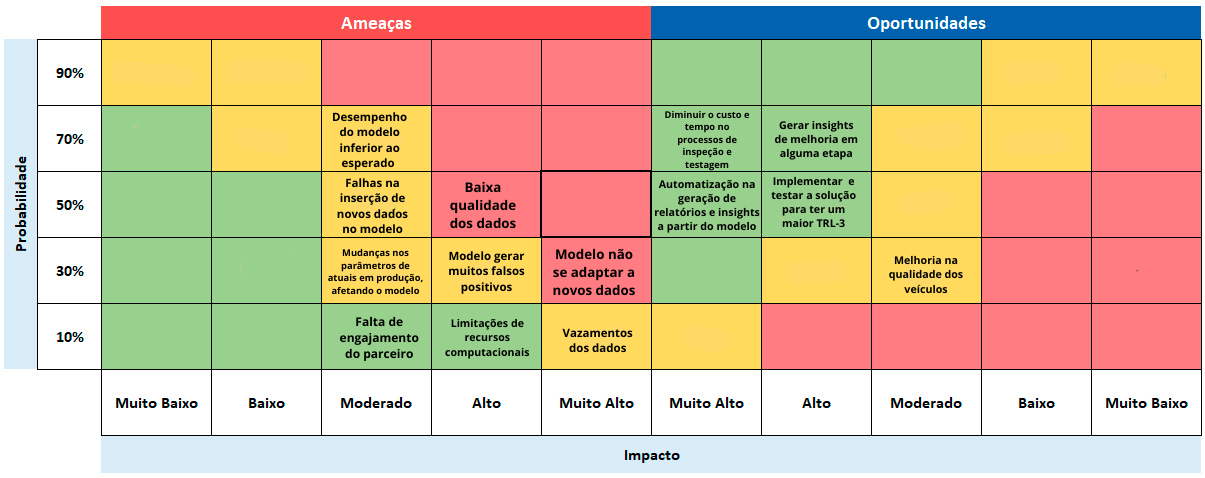
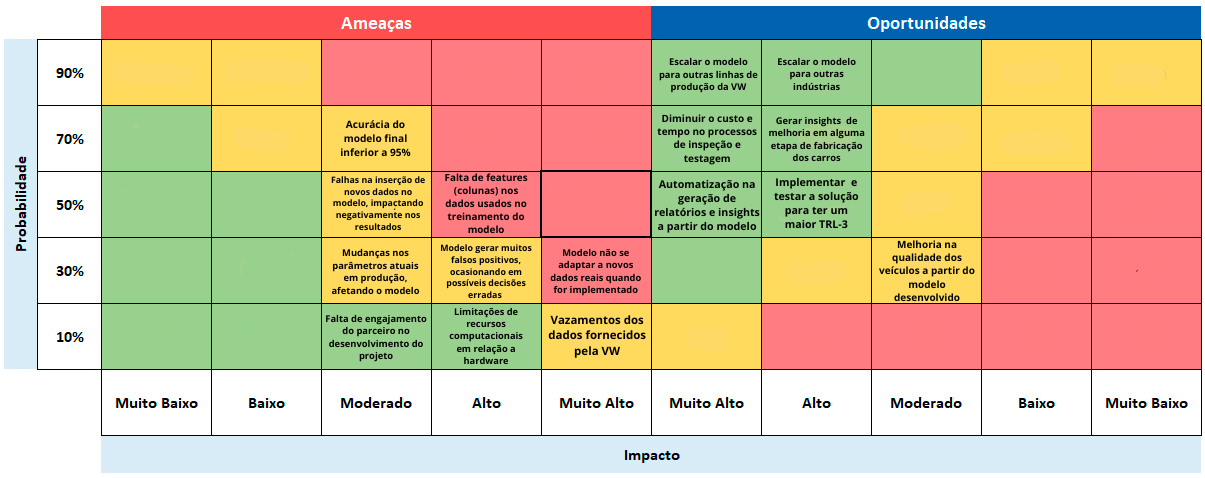
docs: ajustando matriz de risco

diff --git a/docs/docs/Sprints/Sprint 1/Negocios/matriz-de-risco.md b/docs/docs/Sprints/Sprint 1/Negocios/matriz-de-risco.md
@@ -8,38 +8,61 @@ description : Apresentação da análise de risco do projeto
 
 ## Introdução
 
-A matriz de riscos é uma ferramenta de análise de negócios e projeto, onde organizamos os riscos e oportunidades em uma tabela, onde as linhas são os riscos, e as colunas são os impactos e probabilidades. A partir disso, é possível identificar os riscos mais críticos e que requerem maior atenção e alocação de recursos para serem gerenciados. A matriz de risco que desenvolvemos considera o protótipo e o produto final do projeto.
-
+A matriz de riscos é uma ferramenta de análise de negócios e projetos, onde organizamos os riscos e oportunidades em uma tabela, onde as linhas são os riscos, e as colunas são os impactos e probabilidades. A partir disso, é possível identificar os riscos mais críticos e que requerem maior atenção e alocação de recursos para serem gerenciados. A matriz de risco que desenvolvemos considera o protótipo e o produto final do projeto.
 
 <p align="center"><b> Figura 1 - Matriz de Risco</b></p>
 <div align="center">
-  ![Matriz de risco](../../../../static/img/MatrizRiscoGrupo03.png)
-  <p><b>Fonte:</b> Elaborado por Grupo3</p>
+  <img src={require('../../../../static/img/MatrizRiscoGrupo03.png').default} alt="Matriz de risco"/>
+  <p><b>Fonte:</b> Elaborado por Grupo 3</p>
 </div>
 
+## Ameaças
 
-### Ameaças
+### 1. Acurácia do modelo final inferior a 95%
+- **Detalhamento:** Caso o modelo não atinja a acurácia mínima desejada, os resultados das previsões podem ser comprometidos, levando a inspeções ineficazes ou incorretas, o que pode impactar negativamente a eficiência do processo.
 
-- **Desempenho do modelo inferior ao esperado:** Probabilidade 70%, Impacto Alto
-- **Baixa qualidade dos dados:** Probabilidade 50%, Impacto Muito Alto
-- **Modelo gerar falsos positivos:** Probabilidade 50%, Impacto Alto
-- **Modelo não se adaptar a novos dados:** Probabilidade 30%, Impacto Muito Alto
-- **Falhas na inserção de novos dados no modelo:** Probabilidade 50%, Impacto Moderado
-- **Mudanças nos parâmetros de atuais em produção, afetando o modelo:** Probabilidade 30%, Impacto Moderado
-- **Modelo gerar muitos falsos positivos:** Probabilidade 30%, Impacto Alto
-- **Falta de engajamento do parceiro:** Probabilidade 10%, Impacto Baixo
-- **Limitações de recursos computacionais:** Probabilidade 30%, Impacto Moderado
-- **Vazamentos dos dados:** Probabilidade 30%, Impacto Alto
+### 2. Falhas na inserção de novos dados no modelo, impactando negativamente nos resultados
+- **Detalhamento:** Se novos dados não forem incorporados corretamente ou se o modelo não estiver preparao para isso, o modelo pode se desatualizar e não refletir as mudanças na produção, reduzindo a eficácia do processo de predição.
 
-### Oportunidades
+### 3. Falta de features (colunas) nos dados usados no treinamento do modelo
+- **Detalhamento:** Se os dados que foram fornecidos para a gente não tiverem informações suficientes pode limitar o treinamento do modelo assim reduzindo a capacidade de realizar predições precisas, resultando em uma classificação inadequada dos veículos.
 
-- **Diminuir o custo e tempo no processo de inspeção e testagem:** Probabilidade 90%, Impacto Moderado
-- **Gerar insights de melhoria em alguma etapa:** Probabilidade 70%, Impacto Alto
-- **Implementar e testar a solução para ter um maior TRL-3:** Probabilidade 50%, Impacto Muito Alto
-- **Melhoria na qualidade dos veículos:** Probabilidade 50%, Impacto Alto
-- **Automatização na geração de relatórios e insights a partir do modelo:** Probabilidade 30%, Impacto Alto
+### 4. Mudanças nos parâmetros atuais em produção, afetando o modelo
+- **Detalhamento:** Alterações nos parâmetros de produção podem exigir ajustes no treinamento modelo preditivo para que ele continue fornecendo resultados precisos e relevantes.
 
-# Plano de Ação para Riscos
+### 5. Modelo gerar muitos falsos positivos, ocasionando em possíveis decisões erradas
+- **Detalhamento:** Falsos positivos podem levar a ações desnecessárias ou incorretas, como a realização de inspeções em veículos que não necessitam, desperdiçando tempo e recursos.
+
+### 6. Modelo não se adaptar a novos dados quando for implementado
+- **Detalhamento:** A incapacidade do modelo de se ajustar a novos dados pode reduzir sua utilidade ao longo do tempo, necessitando de re-treinamento frequente ou ajustes constantes.
+
+### 7. Falta de engajamento do parceiro no desenvolvimento do projeto
+- **Detalhamento:** A falta de envolvimento do parceiro pode dificultar o progresso do projeto, afetando a comunicação, alinhamento de expectativas e entrega dos resultados.
+
+### 8. Limitações de recursos computacionais em relação a hardware
+- **Detalhamento:** Restrições de hardware podem limitar a capacidade de processamento do modelo, impactando o tempo de treinamento e a eficiência geral do sistema. Atualmente, temos acesso a supercomputadores no laboratório que podem ser utilizados para mitigar esse risco.
+
+### 9. Vazamentos dos dados fornecidos pela VW
+- **Detalhamento:** A exposição de dados sensíveis pode acarretar em problemas legais e de reputação, além de comprometer a segurança das informações do projeto.
+
+## Oportunidades
+
+### 1. Diminuir o custo e tempo no processo de inspeção e testagem
+- **Detalhamento:** Implementar o modelo preditivo pode reduzir significativamente o tempo e os custos associados à inspeção, aumentando a eficiência do processo de fabricação.
+
+### 2. Gerar insights de melhoria em alguma etapa da fabricação dos carros
+- **Detalhamento:** A análise dos dados pode revelar oportunidades de otimização em várias etapas da produção, melhorando a qualidade do produto final.
+
+### 3. Automatização na geração de relatórios e insights a partir do modelo
+- **Detalhamento:** A integração do modelo com sistemas de BI pode automatizar a geração de relatórios, facilitando a tomada de decisões e aumentando a agilidade da equipe.
+
+### 4. Implementar e testar a solução para ter um maior TRL-3
+- **Detalhamento:** Avançar a maturidade tecnológica da solução pode abrir novas possibilidades para sua aplicação em larga escala, tanto na VW quanto em outras indústrias.
+
+### 5. Melhoria na qualidade dos veículos a partir do modelo desenvolvido
+- **Detalhamento:** Ao identificar e corrigir possíveis falhas de produção antes que os veículos saiam da fábrica, a qualidade final pode ser significativamente aprimorada.
+
+## Plano de Ação para Riscos
 
 ### 1. Desempenho do modelo inferior ao esperado
 - **Ação:** Realizar validações contínuas e ajustes no modelo utilizando diferentes técnicas de machine learning, como ajuste de hiperparâmetros, validação cruzada e teste com diferentes algoritmos.
@@ -60,7 +83,7 @@ A matriz de riscos é uma ferramenta de análise de negócios e projeto, onde or
 - **Ação:** Criar um mecanismo de feedback para capturar mudanças nos parâmetros de produção e ajustar o modelo em tempo real ou durante o re-treinamento.
 
 ### 7. Falta de engajamento do parceiro
-- **Ação:** Manter uma comunicação constante e transparente com o parceiro e tirar o maximo das reuniões de alinhamento de cada sprints.
+- **Ação:** Manter uma comunicação constante e transparente com o parceiro e tirar o máximo das reuniões de alinhamento de cada sprint.
 
 ### 8. Limitações de recursos computacionais
 - **Ação:** Utilizar os supercomputadores do laboratório.
@@ -70,4 +93,4 @@ A matriz de riscos é uma ferramenta de análise de negócios e projeto, onde or
 
 ## Conclusão
 
-A matriz de riscos é uma ferramenta essencial para o gerenciamento de riscos em projeto e durante as próximas sprints, será utilizada para monitorar e controlar os riscos identificados. O plano de ação proposto visa mitigar os riscos e aproveitar as oportunidades identificadas, garantindo um proejto eficiente e que gere valor para o cliente.
+A matriz de riscos é uma ferramenta essencial para o gerenciamento de riscos em projetos, e durante as próximas sprints, será utilizada para monitorar e controlar os riscos identificados. O plano de ação proposto visa mitigar os riscos e aproveitar as oportunidades identificadas, garantindo um projeto eficiente e que gere valor para o cliente.
